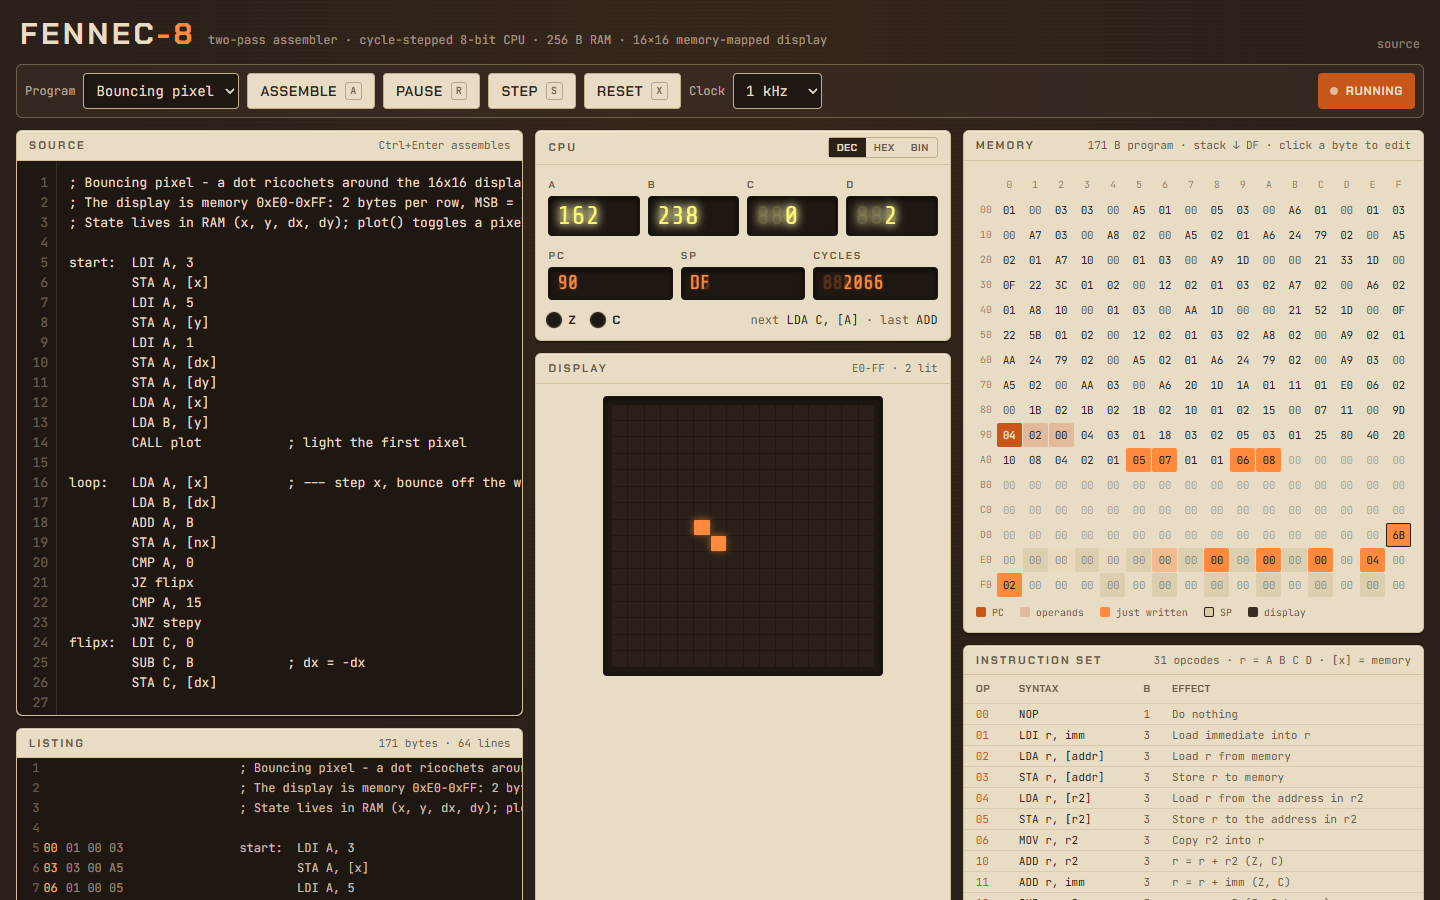
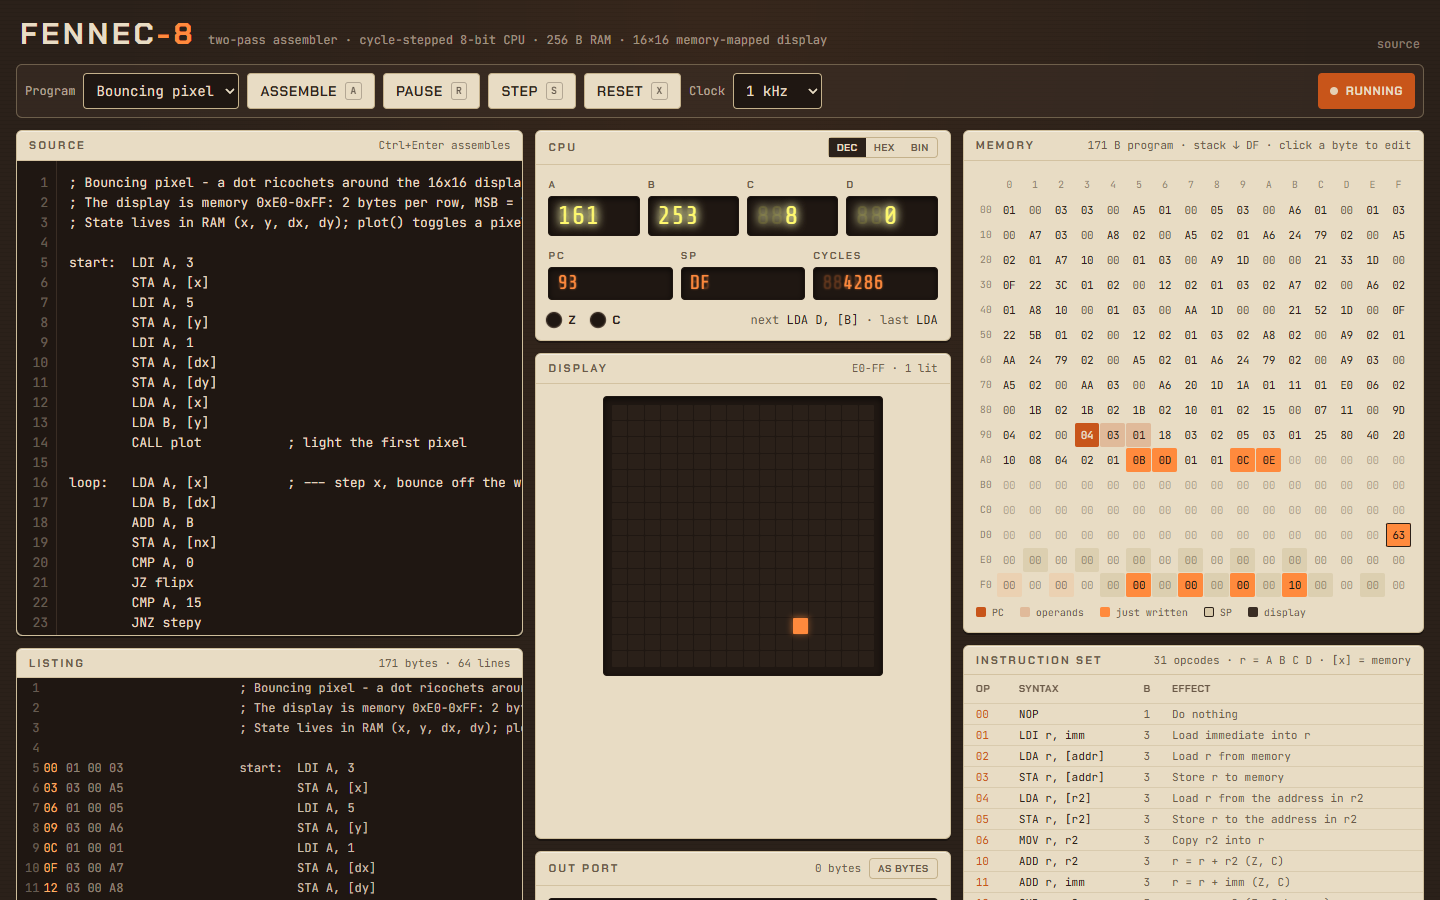
refactor: keep CPU and flash bookkeeping in stable state instances, lint-clean under the React compiler rules

diff --git a/src/hooks/useEmulator.ts b/src/hooks/useEmulator.ts
@@ -1,4 +1,4 @@
-import { useCallback, useEffect, useRef, useState } from 'react'
+import { useCallback, useEffect, useState } from 'react'
 import { AssembleError, assemble, type Assembled } from '../core/assembler'
 import { CPU, type StepResult } from '../core/cpu'
 import { DEFAULT_EXAMPLE_ID, EXAMPLES } from '../core/examples'
@@ -44,21 +44,36 @@ export const HZ_OPTIONS = [
 const MAX_STEPS_PER_FRAME = 50_000
 
 /** Bookkeeping that lives outside the CPU: change timestamps for the UI flashes. */
-interface Meta {
-  memStamp: Float64Array
-  regStamp: number[]
-  flagStamp: number
-  steps: number
-  lastOp: OpDef | null
-}
+class Meta {
+  readonly memStamp = new Float64Array(MEM_SIZE)
+  readonly regStamp = [0, 0, 0, 0]
+  flagStamp = 0
+  steps = 0
+  lastOp: OpDef | null = null
 
-const freshMeta = (): Meta => ({
-  memStamp: new Float64Array(MEM_SIZE),
-  regStamp: [0, 0, 0, 0],
-  flagStamp: 0,
-  steps: 0,
-  lastOp: null,
-})
+  reset(): void {
+    this.memStamp.fill(0)
+    this.regStamp.fill(0)
+    this.flagStamp = 0
+    this.steps = 0
+    this.lastOp = null
+  }
+
+  /** Note everything a step changed. */
+  record(r: StepResult, now: number): void {
+    for (const a of r.memWrites) this.memStamp[a] = now
+    for (const i of r.regWrites) this.regStamp[i] = now
+    if (r.flagsChanged) this.flagStamp = now
+    if (r.op) {
+      this.lastOp = r.op
+      this.steps++
+    }
+  }
+
+  touch(addr: number, now: number): void {
+    this.memStamp[addr & 0xff] = now
+  }
+}
 
 function snapshotOf(cpu: CPU, meta: Meta): Snapshot {
   return {
@@ -80,36 +95,33 @@ function snapshotOf(cpu: CPU, meta: Meta): Snapshot {
   }
 }
 
-function record(meta: Meta, r: StepResult, now: number): void {
-  for (const a of r.memWrites) meta.memStamp[a] = now
-  for (const i of r.regWrites) meta.regStamp[i] = now
-  if (r.flagsChanged) meta.flagStamp = now
-  if (r.op) {
-    meta.lastOp = r.op
-    meta.steps++
-  }
-}
-
 function exampleSource(id: string): string {
   return EXAMPLES.find((e) => e.id === id)?.source ?? ''
 }
 
+const INITIAL_SOURCE = exampleSource(DEFAULT_EXAMPLE_ID)
+
 export function useEmulator() {
-  const cpuRef = useRef<CPU>(null)
-  if (!cpuRef.current) cpuRef.current = new CPU()
-  const metaRef = useRef<Meta>(null)
-  if (!metaRef.current) metaRef.current = freshMeta()
+  // The CPU and its bookkeeping are mutable instances that outlive renders;
+  // they are only ever mutated from event handlers and the scheduler effect.
+  const [cpu] = useState(() => new CPU())
+  const [meta] = useState(() => new Meta())
 
-  const [source, setSource] = useState(() => exampleSource(DEFAULT_EXAMPLE_ID))
+  const [source, setSource] = useState(INITIAL_SOURCE)
   const [exampleId, setExampleId] = useState(DEFAULT_EXAMPLE_ID)
-  const [assembled, setAssembled] = useState<Assembled | null>(null)
-  const [assembledSource, setAssembledSource] = useState<string | null>(null)
+  // The bundled program is assembled and loaded on first render; `?autorun` starts the clock.
+  const [assembled, setAssembled] = useState<Assembled | null>(() => {
+    const result = assemble(INITIAL_SOURCE)
+    cpu.load(result.bytes)
+    return result
+  })
+  const [assembledSource, setAssembledSource] = useState<string | null>(INITIAL_SOURCE)
   const [error, setError] = useState<AsmError | null>(null)
-  const [running, setRunning] = useState(false)
+  const [running, setRunning] = useState(() => window.location.search.includes('autorun'))
   const [hz, setHz] = useState<number>(1000)
-  const [snap, setSnap] = useState<Snapshot>(() => snapshotOf(cpuRef.current!, metaRef.current!))
+  const [snap, setSnap] = useState<Snapshot>(() => snapshotOf(cpu, meta))
 
-  const publish = useCallback(() => setSnap(snapshotOf(cpuRef.current!, metaRef.current!)), [])
+  const publish = useCallback(() => setSnap(snapshotOf(cpu, meta)), [cpu, meta])
 
   /** Assemble `src` and load the result into a fresh CPU. */
   const assembleSource = useCallback(
@@ -117,8 +129,8 @@ export function useEmulator() {
       setRunning(false)
       try {
         const result = assemble(src)
-        cpuRef.current!.load(result.bytes)
-        metaRef.current = freshMeta()
+        cpu.load(result.bytes)
+        meta.reset()
         setAssembled(result)
         setAssembledSource(src)
         setError(null)
@@ -133,41 +145,32 @@ export function useEmulator() {
         return null
       }
     },
-    [publish],
+    [cpu, meta, publish],
   )
 
   const doAssemble = useCallback(() => assembleSource(source), [assembleSource, source])
 
-  // Assemble the bundled program on first load; `?autorun` also starts the clock.
-  useEffect(() => {
-    if (assembleSource(exampleSource(DEFAULT_EXAMPLE_ID)) && window.location.search.includes('autorun')) {
-      setRunning(true)
-    }
-  }, [assembleSource])
-
   const reset = useCallback(() => {
     setRunning(false)
-    const cpu = cpuRef.current!
     if (assembled) cpu.load(assembled.bytes)
     else cpu.reset()
-    metaRef.current = freshMeta()
+    meta.reset()
     publish()
-  }, [assembled, publish])
+  }, [assembled, cpu, meta, publish])
 
   const step = useCallback(() => {
     setRunning(false)
     if (!assembled && !doAssemble()) return
-    const cpu = cpuRef.current!
     if (cpu.halted) return
-    record(metaRef.current!, cpu.step(), performance.now())
+    meta.record(cpu.step(), performance.now())
     publish()
-  }, [assembled, doAssemble, publish])
+  }, [assembled, cpu, meta, doAssemble, publish])
 
   const run = useCallback(() => {
     if (!assembled && !doAssemble()) return
-    if (cpuRef.current!.halted) return
+    if (cpu.halted) return
     setRunning(true)
-  }, [assembled, doAssemble])
+  }, [assembled, cpu, doAssemble])
 
   const pause = useCallback(() => setRunning(false), [])
 
@@ -178,11 +181,11 @@ export function useEmulator() {
 
   const poke = useCallback(
     (addr: number, value: number) => {
-      cpuRef.current!.mem[addr & 0xff] = value & 0xff
-      metaRef.current!.memStamp[addr & 0xff] = performance.now()
+      cpu.poke(addr, value)
+      meta.touch(addr, performance.now())
       publish()
     },
-    [publish],
+    [cpu, meta, publish],
   )
 
   const loadExample = useCallback(
@@ -198,7 +201,6 @@ export function useEmulator() {
   // Scheduler: spend `hz` cycles per second, batched per animation frame.
   useEffect(() => {
     if (!running) return
-    const cpu = cpuRef.current!
     let raf = 0
     let last = performance.now()
     let budget = 0
@@ -210,7 +212,7 @@ export function useEmulator() {
       while (budget >= 1 && !cpu.halted && guard++ < MAX_STEPS_PER_FRAME) {
         const r = cpu.step()
         budget -= r.cycles
-        record(metaRef.current!, r, now)
+        meta.record(r, now)
       }
       publish()
       if (cpu.halted) {
@@ -221,7 +223,7 @@ export function useEmulator() {
     }
     raf = requestAnimationFrame(tick)
     return () => cancelAnimationFrame(raf)
-  }, [running, hz, publish])
+  }, [running, hz, cpu, meta, publish])
 
   let status: Status = error ? 'error' : 'idle'
   if (assembled) {

diff --git a/src/core/cpu.ts b/src/core/cpu.ts
@@ -52,6 +52,11 @@ export class CPU {
     this.mem.set(program.subarray(0, MEM_SIZE), 0)
   }
 
+  /** Front-panel write: change one byte without touching CPU state. */
+  poke(addr: number, value: number): void {
+    this.mem[addr & 0xff] = value & 0xff
+  }
+
   private fetch(): number {
     const b = this.mem[this.pc]
     this.pc = (this.pc + 1) & 0xff

diff --git a/src/App.tsx b/src/App.tsx
@@ -15,7 +15,9 @@ const isTyping = (el: EventTarget | null) =>
 export default function App() {
   const emu = useEmulator()
   const emuRef = useRef(emu)
-  emuRef.current = emu
+  useEffect(() => {
+    emuRef.current = emu
+  })
 
   // Single-key shortcuts when focus is not inside a form control.
   useEffect(() => {
